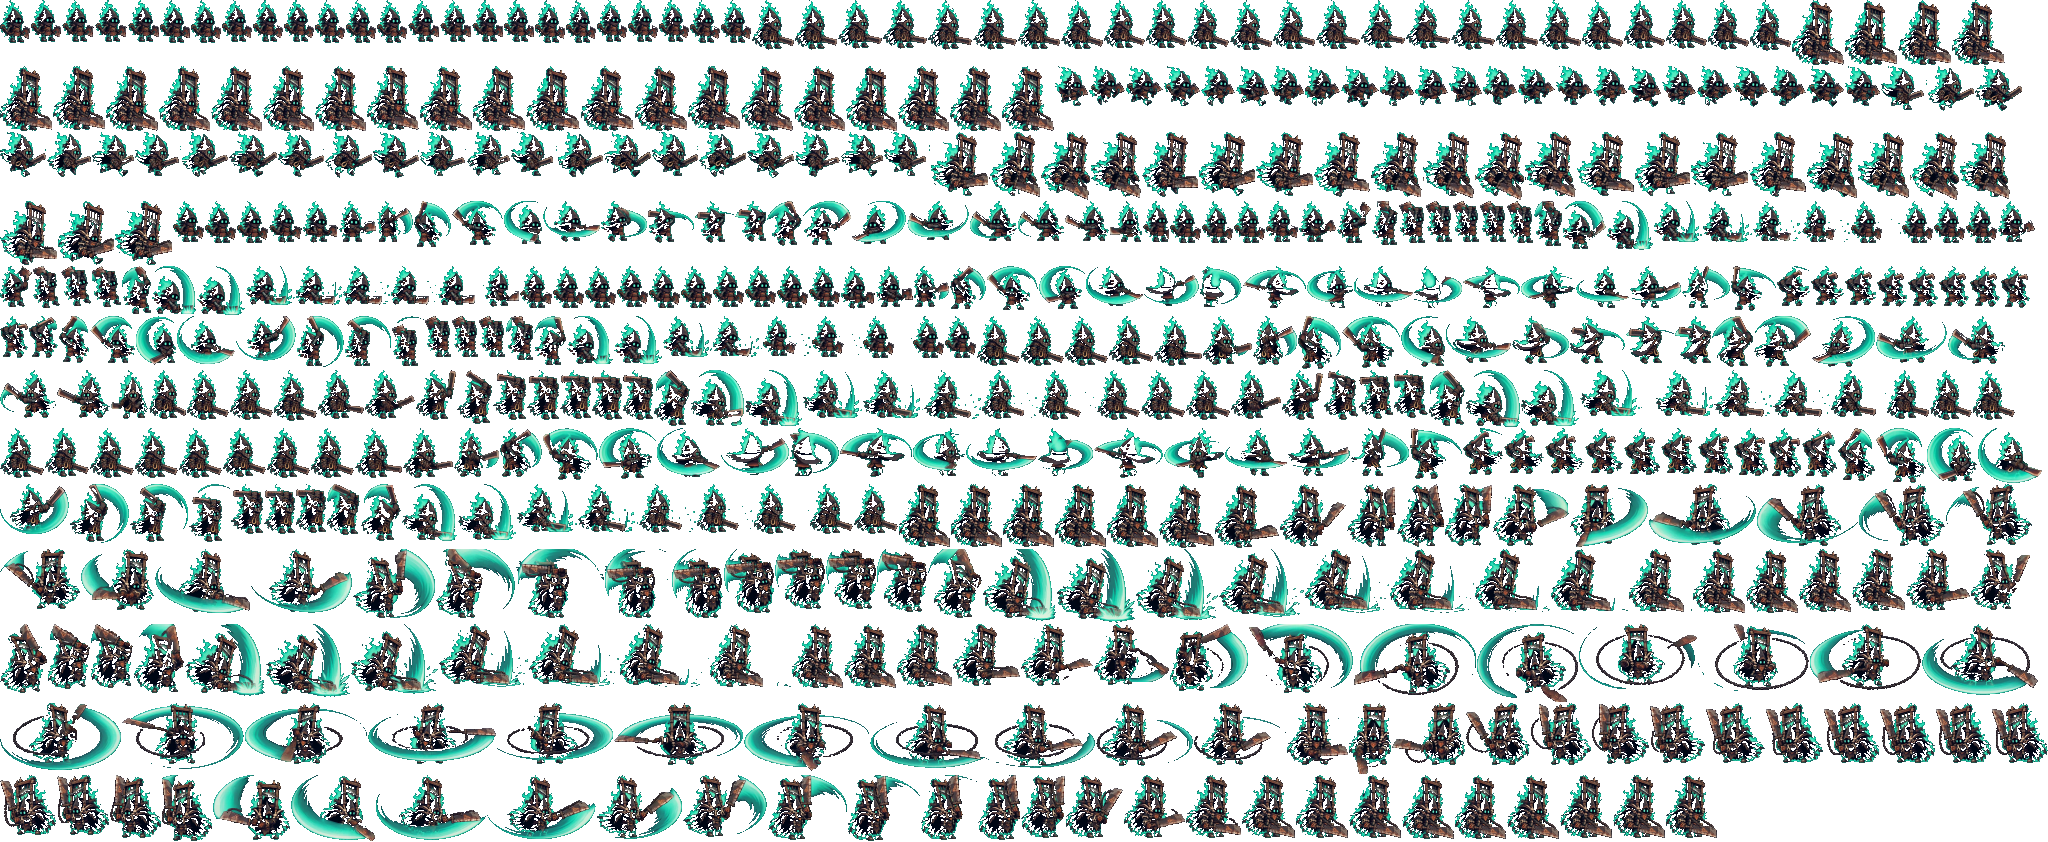
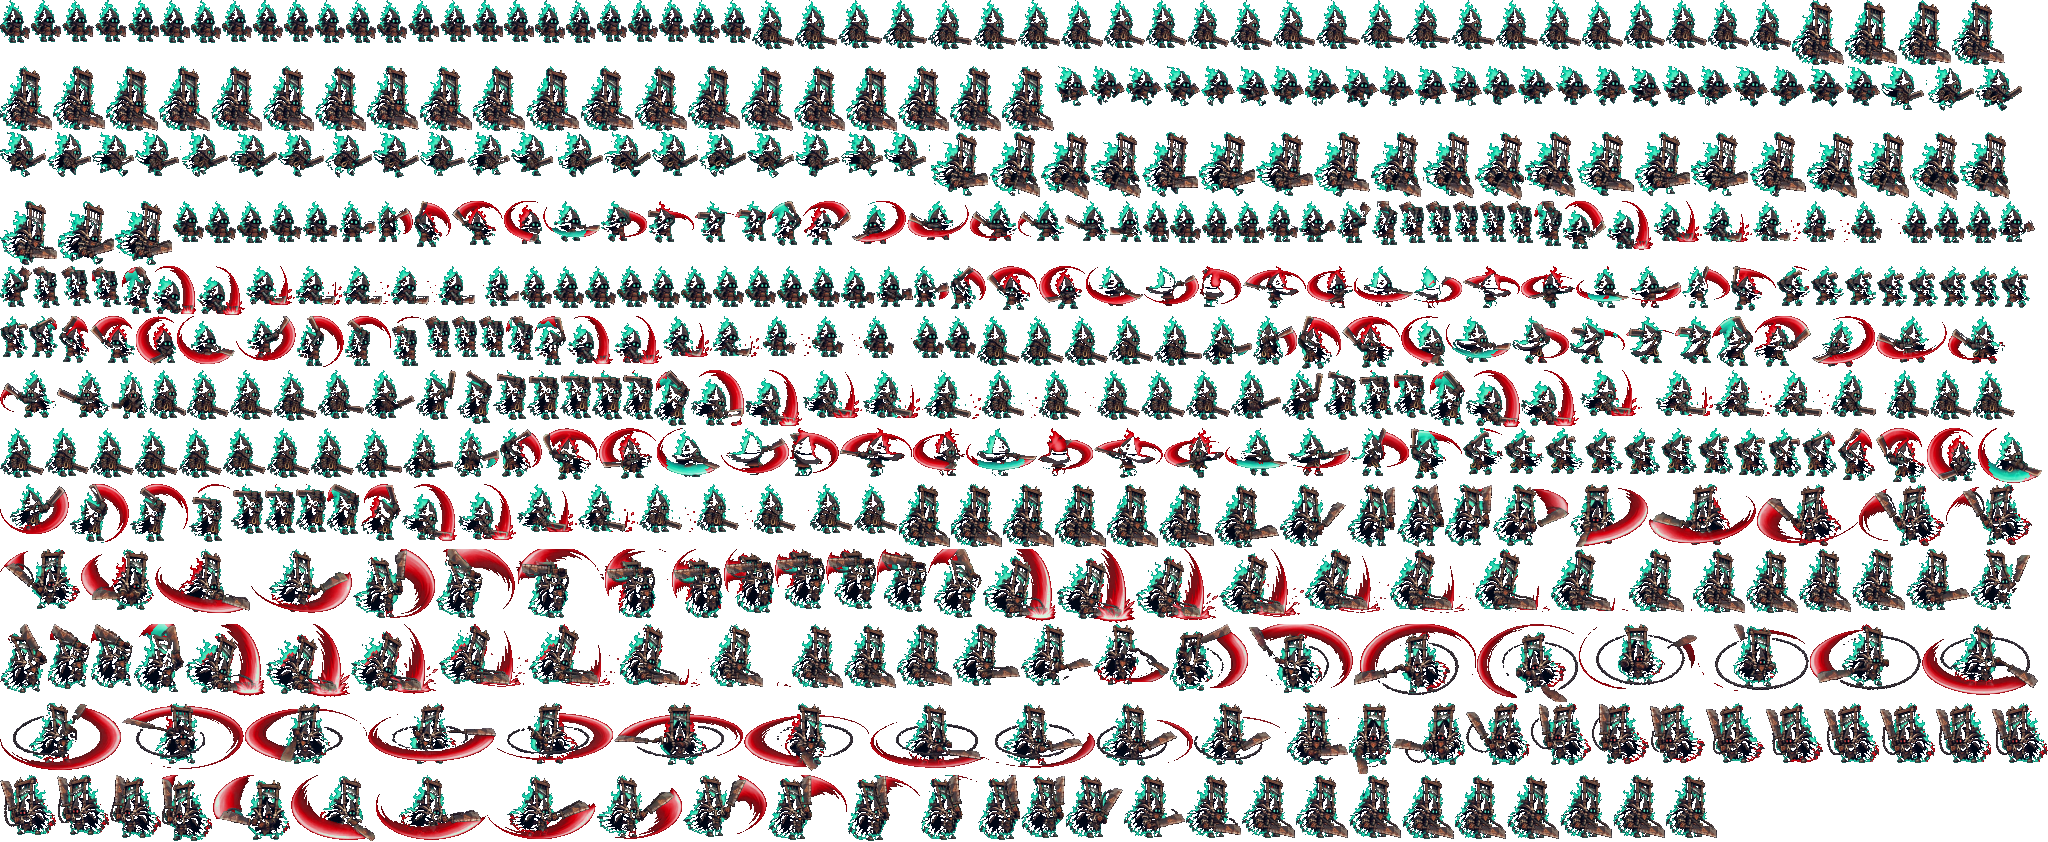
처형인 영상 휘두르기 궤적을 붉은색으로 (몸의 유령불은 청록 그대로)
Claude-Session: https://claude.ai/code/session_01CPuQwRxjahy2BkbhjWZhoU

diff --git a/art/heroframes/fx_recolor.py b/art/heroframes/fx_recolor.py
@@ -1,0 +1,30 @@
+# 영상 공격 프레임의 이펙트(몸 밖의 청록 궤적)만 다른 색으로 바꾼다. 몸의 유령불(청록)은 그대로.
+# 대기·달리기 때 유령불이 있던 자리(조금 넓힘) 밖의 청록 픽셀 = 이펙트로 본다. 셋째 인자 = 넓히는 칸 수 (기본 2)
+# 실행: python3 art/heroframes/fx_recolor.py executioner 356   (색상각 356 = 붉은색). hero_cut.py로 다시 자르면 이것도 다시 돌린다
+import sys, json, colorsys, numpy as np
+from PIL import Image
+from scipy import ndimage
+LINE, HUE = sys.argv[1], float(sys.argv[2]) / 360
+s = open("index.html").read(); k = s.index(f"{LINE}: ", s.index("const HERO = {")) + len(LINE) + 2
+H, _ = json.JSONDecoder().raw_decode(s[k:]); B = H["boxes"]
+sheet = np.asarray(Image.open(f"assets/hero_{LINE}.png").convert("RGBA")).astype(float); done = set(); n = 0
+for S in H["stages"]:
+    if "attack" not in S: continue
+    R = 260; U = np.zeros((2 * R, 2 * R), bool)          # 대기·달리기 때 유령불(청록)이 있던 자리 = 몸의 불꽃. 거기 밖의 청록은 모두 이펙트
+    for ci, ox, oy in S["idle"]["f"] + S["run"]["f"]:
+        x, y, w, h = B[ci]; cc = sheet[y:y + h, x:x + w]; U[R + oy:R + oy + h, R + ox:R + ox + w] |= (cc[..., 3] > 0) & (cc[..., 1] > cc[..., 0] + 25) & (cc[..., 2] > cc[..., 0] + 10)
+    U = ndimage.binary_dilation(U, iterations=int(sys.argv[3]) if len(sys.argv) > 3 else 2)
+    for ci, ox, oy in S["attack"]["f"]:
+        if ci in done: continue
+        done.add(ci); x, y, w, h = B[ci]; c = sheet[y:y + h, x:x + w]
+        r, g, b, a = c[..., 0], c[..., 1], c[..., 2], c[..., 3]
+        m = (a > 0) & (g > r + 25) & (b > r + 10) & ~U[R + oy:R + oy + h, R + ox:R + ox + w]
+        tl = (a > 0) & (g > r + 25) & (b > r + 10); lab, nl = ndimage.label(tl, np.ones((3, 3)))   # 궤적 덩어리가 대부분 불꽃 자리 밖이면 덩어리째 (몸 위를 지나는 부분까지)
+        if nl: tot = ndimage.sum(tl, lab, range(1, nl + 1)); out = ndimage.sum(m, lab, range(1, nl + 1)); m |= np.isin(lab, [i + 1 for i in range(nl) if tot[i] > 30 and out[i] / tot[i] > 0.35])
+        ys, xs = np.nonzero(m)
+        for yy, xx in zip(ys, xs):
+            hh, ss, vv = colorsys.rgb_to_hsv(*(c[yy, xx, :3] / 255)); rr, gg, bb = colorsys.hsv_to_rgb(HUE, min(1, ss * 1.15), vv)
+            c[yy, xx, :3] = [rr * 255, gg * 255, bb * 255]
+        n += len(ys)
+Image.fromarray(sheet.clip(0, 255).astype(np.uint8), "RGBA").save(f"assets/hero_{LINE}.png", optimize=True)
+print("recolored px", n)

diff --git a/art/heroframes/hero_cut.py b/art/heroframes/hero_cut.py
@@ -1,7 +1,7 @@
 # 한 영상에 나란히 있는 계보 3단계 → 단계·동작별 프레임 시트 (assets/hero_<계보>.png) + 좌표 JSON
 # python3 art/heroframes/hero_cut.py <계보> src=<영상>[,zone=left] <동작:시작초:끝초[:fps][:pin]> ... (src= 여러 번 가능, 한 시트로 합침)
 #   병사: soldier src=art/heroframes/soldier_idle_run_source.mp4 idle:1.1:4:10:pin run:4.6:9.6:10:pin src=art/heroframes/soldier_attack_source.mp4,zone=left,only=2 attack:0.4:3.6:12 charge:5.4:8.8:12 src=art/heroframes/soldier_s12_attack_source.mp4,zone=half,n=2,st=0,white=0 attack:0.2:4.4:12 charge:4.6:9.4:12
-#   처형인: executioner h1=43 src=art/heroframes/executioner_idle_run_source.mp4 idle:0.2:2.6:10:pin run:2.9:5.15:10:pin
+#   처형인: executioner h1=43 src=art/heroframes/executioner_idle_run_source.mp4 idle:0.2:2.6:10:pin run:2.9:5.15:10:pin src=art/heroframes/executioner_s12_attack_source.mp4,zone=own,n=2,st=0 attack:0:10.1:12 src=art/heroframes/executioner_s3_attack_source.mp4,zone=own,n=1,st=2 attack:0:10.1:12  (그다음 seg 넣고 fx_recolor.py executioner 356 으로 궤적을 붉게)
 #   서리 늑대: frostwolf src=art/heroframes/frostwolf_idle_run_source.mp4 idle:1.0:5.3:10:pin run:6.0:8.5:10:pin src=art/heroframes/frostwolf_s12_attack_source.mp4,zone=own,n=2,st=0 attack:0:10:12 src=art/heroframes/frostwolf_s3_attack_source.mp4,zone=own,n=1,st=2 attack:0:10:12
 #   지금: 둘째 src = art/heroframes/soldier_s3_attack_source.mp4,zone=half,n=1,st=2 attack:0.2:4.4:12 charge:5.2:9.0:12
 # 첫 프레임에서 세 캐릭터 자리(가로 구간)와 바닥선을 잡고, 모든 프레임을 같은 자리·같은 배율로 자른다 (둥실거림이 그대로 남게)
